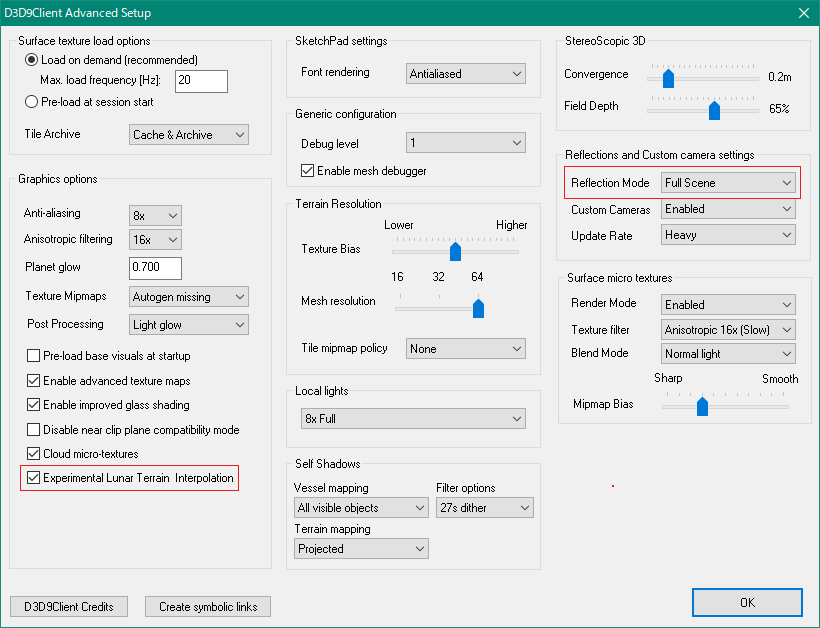
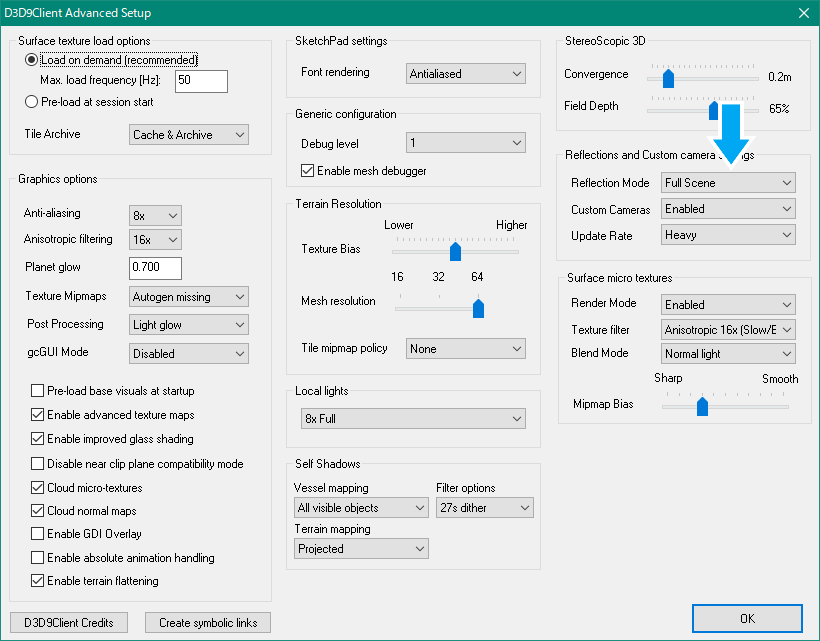
Updated d3d9 settings

diff --git a/apollo/amso-download-2016.html b/apollo/amso-download-2016.html
@@ -22,43 +22,49 @@
       <strong>Orbiter2016</strong>にAMSOをインストールする手順について解説します。
     </p>
 
-
-    <ul>
-      <li><a href="#download">ダウンロード</a>
-        <ul>
-          <li><a href="#download_hires">高解像度テクスチャのダウンロード</a></li>
-        </ul>
-      </li>
-      <li><a href="#install">インストール</a></li>
-      <li><a href="#config">初期設定</a>
-        <ul>
-          <li><a href="#config_parameters">Parameters</a></li>
-          <li><a href="#config_visualeffects">Visual effects</a></li>
-        </ul>
-      </li>
-      <li><a href="#mods">必要なMODの一覧</a>
-        <ul>
-          <li><a href="#mods_d3d9">D3D9Clientの設定</a></li>
-        </ul>
-      </li>
-      <li><a href="#imfd">IMFDの設定</a></li>
-      <li><a href="#visualmod">グラフィックMOD</a></li>
-      <li><a href="#caution">注意点</a>
-        <ul>
-          <li><a href="#caution_damage">Damage and failure simulation</a></li>
-          <li><a href="#caution_camshake">CamShake</a></li>
-          <li><a href="#caution_soundpack">音声の自動再生</a></li>
-        </ul>
-      </li>
-      <li><a href="#document">資料</a></li>
-    </ul>
+    <nav>
+      <ul>
+        <li><a href="#download">ダウンロード</a>
+          <ul>
+            <li><a href="#download_hires">高解像度テクスチャのダウンロード</a></li>
+          </ul>
+        </li>
+        <li><a href="#install">インストール</a></li>
+        <li><a href="#config">初期設定</a>
+          <ul>
+            <li><a href="#config_parameters">Parameters</a></li>
+            <li><a href="#config_visualeffects">Visual effects</a></li>
+          </ul>
+        </li>
+        <li><a href="#mods">必要なMODの一覧</a>
+          <ul>
+            <li><a href="#mods_d3d9">D3D9Clientの設定</a></li>
+          </ul>
+        </li>
+        <li><a href="#imfd">IMFDの設定</a></li>
+        <li><a href="#visualmod">グラフィックMOD</a></li>
+        <li><a href="#caution">注意点</a>
+          <ul>
+            <li><a href="#caution_damage">Damage and failure simulation</a></li>
+            <li><a href="#caution_camshake">CamShake</a></li>
+            <li><a href="#caution_soundpack">音声の自動再生</a></li>
+          </ul>
+        </li>
+        <li><a href="#document">資料</a></li>
+      </ul>
+    </nav>
 
 
     <h2 id="download">ダウンロード</h2>
 
 
     <p>
-      <a href="https://www.acsoft.ch/AMSO/2016/2016.html" target="_blank" rel="noopener noreferrer">AMSO for Orbiter 2016</a>
+      以下のリンクをクリック。
+    </p>
+
+    <p>
+      <a href="https://www.acsoft.ch/AMSO/2016/2016.html" target="_blank" rel="noopener noreferrer">AMSO for Orbiter
+        2016</a>
     </p>
 
     <p>
@@ -69,12 +75,12 @@
 
 
     <p>
-      <strong>AMSO for Orbiter 2016</strong>では月面の高解像度テクスチャが<strong>必須</strong>です。<br>
-      高解像度テクスチャの導入は以下のページを参照してください。
+      このバージョンでは、月面の高解像度テクスチャが<strong>必須</strong>となっている。
     </p>
 
     <p>
-      <a href="/basic/orbiter2016.html#hirestextures" target="_blank">Orbiter2016のダウンロード+インストール</a>
+      <a href="/basic/orbiter2016.html#hirestextures">
+        Orbiter2016のダウンロード+インストール - 高解像度テクスチャ</a>
     </p>
 
 
@@ -86,12 +92,12 @@
     </p>
 
     <ul>
-      <li><a href="/basic/orbitermod.html" target="_blank">OrbiterにMODを導入する</a></li>
-      <li><a href="/misc/jsgme.html" target="_blank">JSGMEを使ったMODのインストール</a></li>
+      <li><a href="/basic/orbitermod.html">OrbiterにMODを導入する</a></li>
+      <li><a href="/misc/jsgme.html">JSGMEを使ったMODのインストール</a></li>
     </ul>
 
     <p>
-      旧バージョンからアップデートする場合は、あらかじめ関連するファイルをすべて削除してください。
+      旧バージョンからアップデートする場合は、あらかじめ関連するファイルをすべて削除しておく。
     </p>
 
 
@@ -101,28 +107,39 @@
     <h3 id="config_parameters">Parameters</h3>
 
 
-    <p><strong>Launchpad</strong>の<kbd>Parameters</kbd>タブを開いて、以下の設定を確認・変更してください。※</p>
+    <p>
+      <a href="/basic/orbitercontrol.html#launchpad">Launchpad</a>の<kbd>Parameters</kbd>タブを開く。<br>
+      以下の設定を確認・変更する。<br>
+    </p>
 
-    <p class="note">※オートパイロットの挙動に影響します。</p>
-
-    <p>以下の設定は必ず有効にしてください。（チェックを入れる）</p>
+    <p>
+      以下の項目にチェックを入れて有効にする。
+    </p>
 
     <ul>
       <li><strong>Complex flight model</strong></li>
       <li><strong>Limited fuel</strong></li>
     </ul>
 
-    <p>以下の設定は無効にしてください。（チェックを外す）</p>
+    <p>
+      以下の項目はチェックを外して無効にする。
+    </p>
 
     <ul>
-      <li><strong>Gravity-gradient torque</strong></li>
       <li><strong>Damage and failure simulation</strong>※</li>
+      <li><strong>Gravity-gradient torque</strong></li>
     </ul>
 
-    <p class="note">※必ずしも無効にする必要はありません。詳しい解説は<a href="#caution">下記</a>を参照</p>
+    <p class="note">※必ずしも無効にしなくてもよい。<a href="#caution">下記</a>を参照
+    </p>
 
-    <p>設定項目の意味については、以下のページを参照してください。<br>
-      <a href="/basic/realismperturbations.html" target="_blank">Realism（リアリズム）とPerturbations（摂動）の設定</a>
+    <p>
+      これらが正しく設定されていないと、オートパイロットを実行できない。<br>
+      各項目の意味については以下のページを参照。<br>
+    </p>
+
+    <p>
+      <a href="/basic/realismperturbations.html">Realism（リアリズム）とPerturbations（摂動）の設定</a>
     </p>
 
     <p>
@@ -133,16 +150,21 @@
     <h3 id="config_visualeffects">Visual effects</h3>
 
 
-    <p><strong>Launchpad</strong>の<kbd>Visual effects</kbd>タブを開いて、以下の設定を確認・変更してください。</p>
+    <p>
+      <a href="/basic/orbitercontrol.html#launchpad">Launchpad</a>の<kbd>Visual effects</kbd>タブを開く。<br>
+      以下の設定を確認・変更する。
+    </p>
 
     <ol>
-      <li><strong>Surface elevation</strong>のドロップダウンリストから<strong>linear interpolation</strong>を選択する。</li>
+      <li><strong>Surface elevation, using</strong>の右側で<strong>linear interpolation</strong>を選択する。</li>
       <li><strong>Max. resolution level</strong>を<strong>19</strong>にする。</li>
       <li><strong>Particle streams</strong>にチェックを入れる。</li>
       <li><strong>Ambient light level</strong>を15から30までの値に設定する。※</li>
     </ol>
 
-    <p class="note">※暗く感じる場合は値を大きくしてください。</p>
+    <p class="note">
+      ※暗く感じる場合は値を大きくしてもよい
+    </p>
 
     <p>
       <img loading="lazy" src="/images/apollo/amso-download-2016/003.png" width="504" height="260">
@@ -153,38 +175,32 @@
 
 
     <p>
-      以下のMODはすべて<strong>_ADDONS</strong>フォルダに同梱されています。<br>
-      <strong>D3D9Client</strong>は<strong>必須</strong>、<strong>LTMFD</strong>と<strong>IMFD</strong>は月往復ミッションの再現で必要になります。
+      以下のMODはすべて<strong>_ADDONS</strong>フォルダに同梱されている。<br>
+      インストール手順についてはそれぞれのリンクをクリック。
     </p>
 
-    <p>
-      インストール手順については以下のページを参照してください。
-    </p>
-
-
-    <ul>
-      <li><a href="/basic/d3d9client.html" target="_blank">D3D9Clientのインストールと設定</a>※</li>
-      <li><a href="/transximfd/imfd-download.html" target="_blank">IMFDのインストールと設定</a></li>
-      <li><a href="/mods/lunartransfermfd.html" target="_blank">LunarTransferMFDのダウンロード+インストール</a></li>
-    </ul>
-
-
-    <p>
-      ※<strong>D3D9Client R3.13</strong>以降のバージョンが必要
-    </p>
+    <table>
+      <tr>
+        <th><a href="/basic/d3d9client.html">D3D9Client</a></th>
+        <td><strong>R3.13</strong>以降のバージョンが<strong>必須</strong></td>
+      </tr>
+      <tr>
+        <th><a href="/transximfd/imfd-download.html">IMFD</a></th>
+        <td>遷移軌道に乗るとき必要になる</td>
+      </tr>
+      <tr>
+        <th><a href="/mods/lunartransfermfd.html">LunarTransferMFD</a></th>
+        <td>遷移軌道に乗るとき必要になる</td>
+      </tr>
+    </table>
 
 
     <h3 id="mods_d3d9">D3D9Clientの設定</h3>
 
 
     <p>
-      <strong>Launchpad</strong>で<kbd>Video</kbd>タブを開く。<br>
+      <a href="/basic/orbitercontrol.html#launchpad">Launchpad</a>で<kbd>Video</kbd>タブを開く。<br>
       <kbd>Advanced</kbd>をクリックして<strong>Advanced Setup</strong>ダイアログを開く。
-    </p>
-
-    <p>
-      <strong>Experimental Lunar Terrain Interpolation</strong>にチェックを入れる。<br>
-      （ダイアログボックスの左下）
     </p>
 
     <p>
@@ -200,16 +216,22 @@
     <h3 id="imfd">IMFDの設定</h3>
 
 
-    <p>時刻表示の設定は、かならず<strong>GET</strong>にしてください。<br>
-      参照：<a href="/transximfd/imfd-download.html" target="_blank">IMFDのインストールと設定</a></p>
+    <p>
+      時刻表示を<a href="/misc/orbitalelements.html#get">GET</a>にしておく。<br>
+      参照：<a href="/transximfd/imfd-download.html">IMFDのインストールと設定</a>
+    </p>
 
 
     <h4>LambertAP Mode</h4>
 
 
-    <p>IMFDのオートパイロットの設定を変更すると、マニューバ実行中の姿勢制御を実際のアポロ宇宙船に近づけることができます。※</p>
-    <p class="note">※この設定をしなくても、ミッションの遂行にはほとんど影響しません</p>
-    <p><strong>Program Menu</strong>から<strong>Configuration</strong>を選択（<kbd>MNU</kbd>→<kbd>MOD</kbd>の順番でクリック）。<br>
+    <p>
+      マニューバ実行中の姿勢制御を、実際のアポロ宇宙船に近づけることができる。<br>
+      この設定をしなくても、ミッションの遂行には影響しない。
+    </p>
+
+    <p>
+      <strong>Program Menu</strong>から<strong>Configuration</strong>を選択（<kbd>MNU</kbd>→<kbd>MOD</kbd>の順番でクリック）。<br>
       <kbd>Nxt</kbd>を何度かクリックして<strong>LambertAP Mode</strong>を選択。<br>
       <kbd>+</kbd>をクリックして<strong>ApolloP30</strong>に切り替える。
     </p>
@@ -222,9 +244,19 @@
     <h2 id="visualmod">グラフィックMOD</h2>
 
 
-    <p>サターンロケットの見た目が良くなるMODです。</p>
-    <p><a href="https://www.orbithangar.com/searchid.php?ID=6825" target="_blank" rel="noopener noreferrer">Saturn rocket repaint</a></p>
-    <p>インストールは、ファイルを解凍して中身をOrbiterのフォルダに上書きするだけ。</p>
+    <p>
+      サターンロケットの見た目を改善するMOD。
+    </p>
+
+    <p>
+      <a href="https://www.orbiter-forum.com/resources/saturn-rocket-repaint.1720/" target="_blank"
+        rel="noopener noreferrer">
+        Saturn rocket repaint</a>
+    </p>
+
+    <p>
+      インストールは、ファイルを解凍して中身をOrbiterのフォルダに上書き。
+    </p>
 
 
     <h2 id="caution">注意点</h2>
@@ -233,40 +265,60 @@
     <h3 id="caution_damage">Damage and failure simulation</h3>
 
 
-    <p>この設定が有効になっていると、低い確率でランダムに故障が発生します。<br>
-      実際のミッションに忠実にプレイしたい場合は、無効にしておくことをおすすめします。<br>
-      ただし、13号のミッションを史実通り進めたい場合は有効にしてください。</p>
-    <p>故障の種類によってはミッションを続行可能なこともあります。<br>
-      <kbd>J</kbd>か<kbd>K</kbd>を押すことによってアラームを停止できます。
+    <p>
+      この設定が有効になっていると、低い確率でランダムに故障が発生する。<br>
+      実際のミッションに忠実にプレイしたい場合は無効にしておく。<br>
+      ただし、13号のミッションを史実通り進めたい場合は有効にする。
+    </p>
+
+    <p>
+      故障の種類によってはミッションを続行可能なこともある。<br>
+      <kbd>J</kbd>か<kbd>K</kbd>を押すことによってアラームを停止できる。
     </p>
 
 
     <h3 id="caution_camshake">CamShake</h3>
 
 
-    <p><a href="/mods/camshake-mod.html" target="_blank">CamShake</a>（ゲーム内でカメラを振動させるMOD）を導入している場合は外してください。</p>
+    <p>
+      <a href="/mods/camshake-mod.html">CamShake</a>（ゲーム内でカメラを振動させるMOD）を導入している場合は無効にしておく。
+    </p>
 
 
     <h3 id="caution_soundpack">音声の自動再生</h3>
 
 
-    <p>11号ミッションでは、音声の自動再生のタイミングでタイムワープが解除されます。<br>
-      手動で操作したい場合には、<kbd>Ctrl</kbd>+<kbd>K</kbd>の同時押しで自動再生を停止できます。※</p>
+    <p>
+      11号ミッションでは、音声の自動再生のタイミングでタイムワープが解除される。<br>
+      手動で操作したい場合には、<kbd>Ctrl</kbd>+<kbd>K</kbd>の同時押しで自動再生を停止できる。※
+    </p>
 
-    <p class="note">※PDIなどの一部の音声は無効にできません。</p>
+    <p class="note">
+      ※PDIなど一部の音声は無効にできない
+    </p>
 
 
     <h2 id="document">資料</h2>
 
 
-    <p>NASAの公式サイトにて<i>Apollo by the Numbers</i>のウェブ版が無料公開されています。<br>
-      これを読めば、各ミッションにおけるエンジンの噴射時間などのスケジュールを確認できます。</p>
-    <p><a href="https://history.nasa.gov/SP-4029/SP-4029.htm" target="_blank" rel="noopener noreferrer">SP-4029 Apollo by the Numbers: A
-        Statistical Reference</a></p>
-    <p>PDF版には画像も収録されています。<br>
-      <a href="https://history.nasa.gov/SP-4029.pdf" target="_blank" rel="noopener noreferrer">Apollo by the Numbers - SP-4029.pdf</a>
+    <p>
+      NASAの公式サイトにて<i>Apollo by the Numbers</i>のウェブ版が無料公開されている。<br>
+      各ミッションにおけるエンジンの噴射時間などのスケジュールを確認できる。
     </p>
 
+    <p>
+      <a href="https://history.nasa.gov/SP-4029/SP-4029.htm" target="_blank" rel="noopener noreferrer">
+        SP-4029 Apollo by the Numbers: A Statistical Reference</a>
+    </p>
+
+    <p>
+      PDF版には画像も収録されている。
+    </p>
+
+    <p>
+      <a href="https://history.nasa.gov/SP-4029.pdf" target="_blank" rel="noopener noreferrer">
+        Apollo by the Numbers - SP-4029.pdf</a>
+    </p>
 
   </main>
 

diff --git a/basic/orbiter2016.html b/basic/orbiter2016.html
@@ -465,7 +465,7 @@
     </p>
 
     <p>
-      <strong>100GB</strong>程度のHDD・SSD空き容量を確保しておくこと。
+      合計で<strong>50GB</strong>程度のHDD・SSD空き容量を確保しておくこと。
     </p>
 
 
